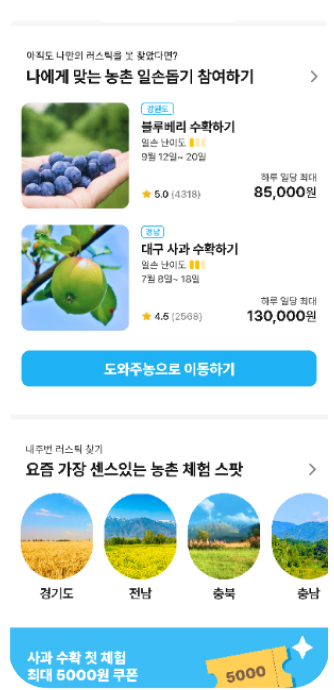
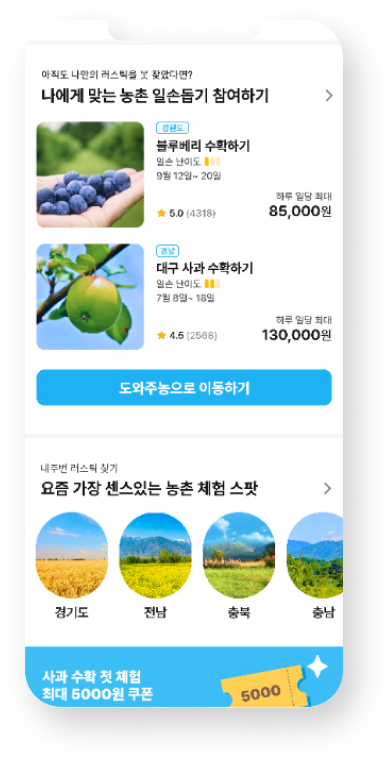
1125
chris

diff --git a/css/main1680.css b/css/main1680.css
@@ -2273,53 +2273,53 @@
     position: relative;
     overflow: hidden;
     background-color: #f0faff;
-    height: 2300px;
+    height: 2500px;
 }
 #sct22 #mockUpBundle22{
     position: relative;
     height: 2300px;
 }
 #sct22 img {
-    transform: scale(80%);
+    /* transform: scale(80%); */
     position: absolute;
-    box-shadow: 7px 11px 10px 0 rgb(0 0 0 / 35%);
+    /* box-shadow: 7px 11px 10px 0 rgb(0 0 0 / 35%); */
     border-radius: 40px;
 }
 #sct22 #mockUp22_1 {
     left: 184px;
-    top: 230px;
+    top: 330px;
 }
 #sct22 #mockUp22_2 {
     left: 607px;
-    top: 451px;
+    top: 551px;
 }
 #sct22 #mockUp22_3 {
     left: 1015px;
-    top: 1px;
+    top: 101px;
 }
 #sct22 #mockUp22_4 {
     left: 1400px;
-    top: 331px;
+    top: 431px;
 }
 #sct22 #mockUp22_5 {
     left: 184px;
-    top: 815px;
+    top: 1115px;
 }
 #sct22 #mockUp22_6 {
     left: 607px;
-    top: 1049px;
+    top: 1349px;
 }
 #sct22 #mockUp22_7 {
     left: 1015px;
-    top: 602px;
+    top: 902px;
 }
 #sct22 #mockUp22_8 {
     left: 1400px;
-    top: 929px;
+    top: 1229px;
 }
 #sct22 #mockUp22_9 {
     left: 1015px;
-    top: 1220px;
+    top: 1720px;
 }
 
 #sct23 {
@@ -2330,7 +2330,7 @@
 }
 #sct23 div{
     position: absolute;
-    top: 820px;
+    top: 1160px;
     left: 400px;
 
 }
